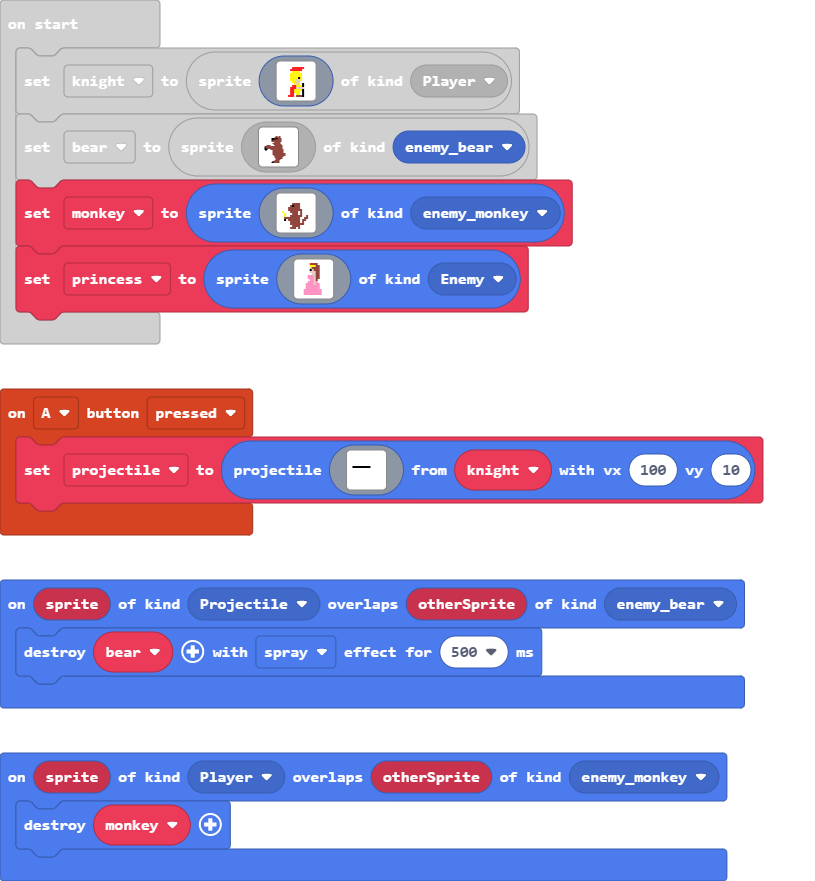
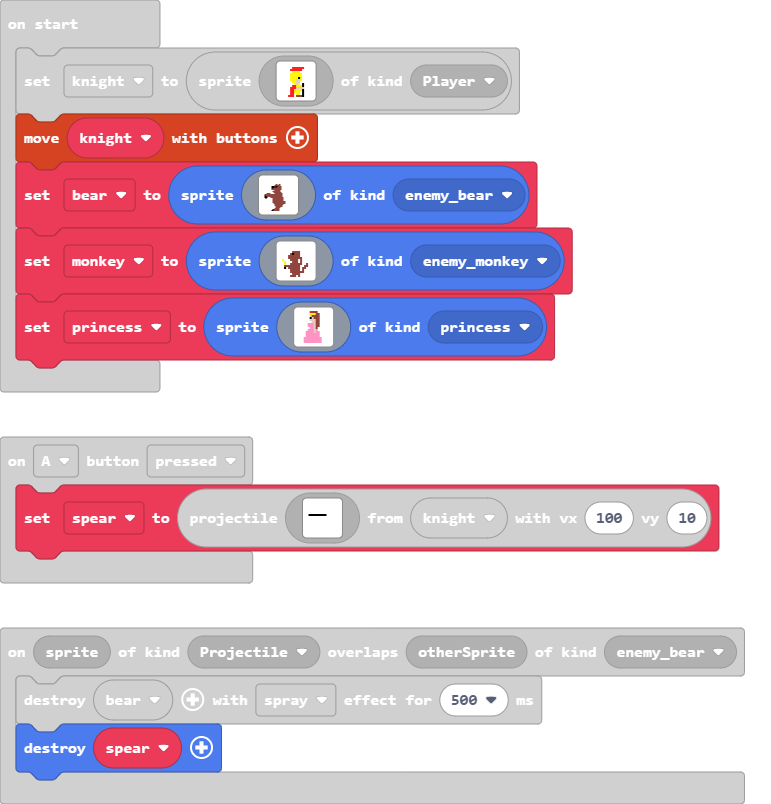
Update pxt.json, main.blocks, main.ts, tilemap.g.jres, tilemap.g.ts

diff --git a/main.ts b/main.ts
@@ -1,12 +1,13 @@
 namespace SpriteKind {
     export const enemy_monkey = SpriteKind.create()
     export const enemy_bear = SpriteKind.create()
+    export const princess = SpriteKind.create()
 }
 sprites.onOverlap(SpriteKind.Player, SpriteKind.enemy_monkey, function (sprite, otherSprite) {
     monkey.destroy()
 })
 controller.A.onEvent(ControllerButtonEvent.Pressed, function () {
-    projectile = sprites.createProjectileFromSprite(img`
+    spear = sprites.createProjectileFromSprite(img`
         . . . . . . . . . . . . . . . . 
         . . . . . . . . . . . . . . . . 
         . . . . . . . . . . . . . . . . 
@@ -27,8 +28,9 @@ controller.A.onEvent(ControllerButtonEvent.Pressed, function () {
 })
 sprites.onOverlap(SpriteKind.Projectile, SpriteKind.enemy_bear, function (sprite, otherSprite) {
     bear.destroy()
+    spear.destroy()
 })
-let projectile: Sprite = null
+let spear: Sprite = null
 let monkey: Sprite = null
 let bear: Sprite = null
 let knight: Sprite = null
@@ -50,6 +52,7 @@ knight = sprites.create(img`
     . . . . . 2 2 . 5 5 . f . . . . 
     . . . . 2 2 2 . e e e f . . . . 
     `, SpriteKind.Player)
+controller.moveSprite(knight)
 bear = sprites.create(img`
     ................................
     ................................
@@ -119,4 +122,4 @@ let princess = sprites.create(img`
     . . . 3 3 3 3 3 3 3 3 3 . . . . 
     . . . 3 3 3 3 3 3 3 3 3 . . . . 
     . . . 3 3 3 3 3 3 3 3 3 . . . . 
-    `, SpriteKind.Enemy)
+    `, SpriteKind.princess)

diff --git a/tilemap.g.ts b/tilemap.g.ts
@@ -1,0 +1,7 @@
+// Auto-generated code. Do not edit.
+namespace myTiles {
+    //% fixedInstance jres blockIdentity=images._tile
+    export const transparency16 = image.ofBuffer(hex``);
+
+}
+// Auto-generated code. Do not edit.
